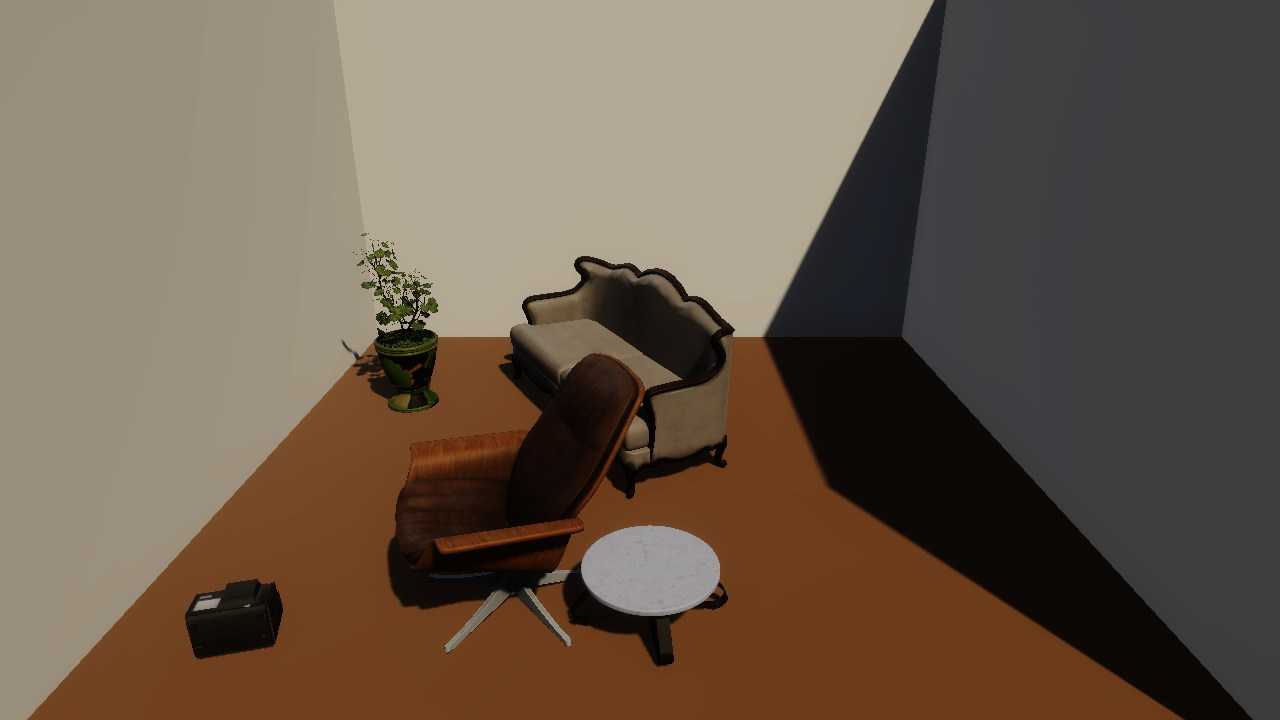
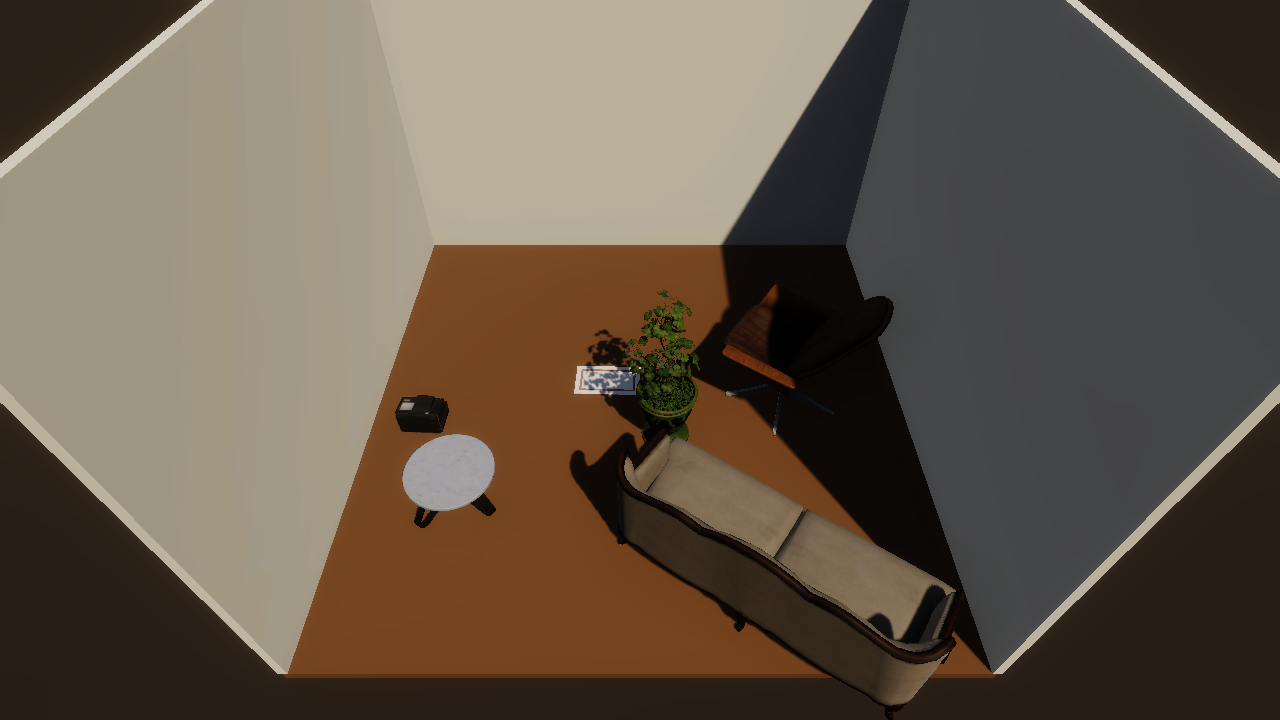
feat(paper03): §3.4·§4.3·§4.4 본문/그림 정합 — OverlapBox push-out 알고리즘 명시 + 룸 크기 시나리오별 차등 + 카메라 elevated + figure 6매 재측정

diff --git a/SplatForge-UnityClient/Assets/SplatForge/Editor/Paper03/Paper03Runner.cs b/SplatForge-UnityClient/Assets/SplatForge/Editor/Paper03/Paper03Runner.cs
@@ -1,15 +1,16 @@
 // Paper03Runner.cs — batchmode entry for Paper03 experiment
 //
-// 그림 7~12 정식 PBR 렌더 파이프라인 (2026-05-07 재작성, v3 회전·룸 보정):
+// 그림 7~12 정식 PBR 렌더 파이프라인 (2026-05-07 v4 — 시나리오별 룸·iterative 충돌 해소·시점 보정):
 //   (1) Polyhaven 동봉 PBR 텍스처(diff/nor_gl/arm)를 HDRP/Lit Material 에 직접 바인딩
-//   (2) HDRP Volume(Exposure + Tonemapping ACES) + Directional Sun(Lux) 으로
-//       카메라가 받는 노출을 결정. tint/contrast/gamma 후처리 없음.
-//   (3) 회전 근본 보정 (2026-05-07): auto_lay_fix 휴리스틱 제거
-//       (rug/tv 처럼 본질적으로 평평한 객체를 잘못 세움). 대신 spec.position.y 를
-//       0 으로 클램프하고 ground-snap 이 실제 Renderer.bounds.size.y 를 사용해 바닥에
-//       정확히 안착시킨다.
-//   (4) 3 벽 + 4×4 바닥 procedural 추가 + 카메라 외부 시점 (diorama 스타일).
-//       furniture 좌표는 (-1.7..1.7) 로 클램프해 벽 안쪽에 배치.
+//   (2) HDRP Volume(Exposure + Tonemapping ACES) + Directional Sun(Lux)
+//   (3) 회전 근본 보정: auto_lay_fix 휴리스틱 제거. spec.position.y → 0 클램프 +
+//       ground-snap 이 실제 Renderer.bounds.size.y 사용.
+//   (4) v4 시나리오별 룸 (T1): bedroom/office 3.0×3.0m, living_room 3.5×3.5m, 벽 H=2.5m.
+//   (5) v4 §3.4 iterative push-out (T2): ground-snap 후 OverlapBox pair-wise 검사,
+//       작은 객체를 큰 객체로부터 half-overlap 만큼 XZ 평면에서 밀어냄. 최대 10회 반복.
+//       resolved_overlaps 카운트를 metric JSON 에 기록.
+//   (6) v4 카메라 (T3): pos (0, 3.5, -3.0), LookAt (0, 0.4, 0), FOV 55 — diorama
+//       elevated angle 로 객체 배치를 위에서 비스듬히 내려다본다.
 
 using System;
 using System.Collections.Generic;
@@ -66,6 +67,7 @@ namespace SplatForge.EditorPaper03
             public int ground_contact_count;
             public float floor_adhesion_pct;
             public int total_collisions;
+            public int resolved_overlaps;
             public float semantic_proximity;
             public float wall_clock_ms;
             public string render_path;
@@ -284,12 +286,32 @@ namespace SplatForge.EditorPaper03
 
             SetupHdrpVolume();
 
-            // 4×4 바닥 + 3 벽 (back, left, right) procedural diorama.
-            // 정면 벽은 카메라 시야를 위해 생략. 천장도 생략.
-            const float ROOM_W = 4f;          // 가로(x)
-            const float ROOM_D = 4f;          // 세로(z)
-            const float WALL_H = 2.5f;        // 벽 높이
-            const float WALL_T = 0.05f;       // 벽 두께
+            // T1 (2026-05-07 v4) — 시나리오별 룸 크기. 마스터 지시:
+            //   bedroom : 3.0×3.0m  → CLAMP ±1.4
+            //   office  : 3.0×3.0m  → CLAMP ±1.4
+            //   living  : 3.5×3.5m  → CLAMP ±1.65
+            //   기타    : 4.0×4.0m fallback (기존 동작 유지) → CLAMP ±1.7
+            // 벽 높이 2.5m 고정. 벽 두께 0.05m. CLAMP 는 벽 안쪽 0.1m 마진까지 흡수.
+            float ROOM_W, ROOM_D;
+            float CLAMP_X, CLAMP_Z;
+            string scn = (spec.scenario ?? "").ToLowerInvariant();
+            if (scn == "cozy_bedroom" || scn == "modern_office")
+            {
+                ROOM_W = 3.0f; ROOM_D = 3.0f;
+                CLAMP_X = 1.4f; CLAMP_Z = 1.4f;
+            }
+            else if (scn == "living_room")
+            {
+                ROOM_W = 3.5f; ROOM_D = 3.5f;
+                CLAMP_X = 1.65f; CLAMP_Z = 1.65f;
+            }
+            else
+            {
+                ROOM_W = 4.0f; ROOM_D = 4.0f;
+                CLAMP_X = 1.7f; CLAMP_Z = 1.7f;
+            }
+            const float WALL_H = 2.5f;
+            const float WALL_T = 0.05f;
 
             var floor = GameObject.CreatePrimitive(PrimitiveType.Cube);
             floor.name = "Floor";
@@ -318,9 +340,7 @@ namespace SplatForge.EditorPaper03
             rightWall.transform.position = new Vector3(ROOM_W * 0.5f, WALL_H * 0.5f, 0);
             rightWall.GetComponent<Renderer>().sharedMaterial = wallMat;
 
-            // furniture 클램프 영역 — 벽에서 0.3m 이상 안쪽.
-            const float CLAMP_X = ROOM_W * 0.5f - 0.3f;
-            const float CLAMP_Z = ROOM_D * 0.5f - 0.3f;
+            // furniture 클램프 영역은 위 시나리오별 분기에서 결정됨.
 
             // Sun (HDRP intensity in Lux). 정오 햇빛 ~100,000 lux 는 너무 강하므로
             // 실내 창문 들어오는 일조량 ~30,000 lux 으로 설정.
@@ -345,14 +365,16 @@ namespace SplatForge.EditorPaper03
             hdFill.lightUnit = LightUnit.Lux;
             hdFill.EnableShadows(false);
 
+            // T3 (v4) — elevated diorama. 위에서 비스듬히 내려다보는 시점으로
+            //   객체 배치(특히 가구 사이 공간)을 더 명확히 보여준다.
+            //   pos (0, 3.5, -3.0), LookAt (0, 0.4, 0), FOV 55.
             var camGo = new GameObject("Cam");
             var cam = camGo.AddComponent<Camera>();
             cam.clearFlags = CameraClearFlags.Skybox;
-            cam.fieldOfView = 50f;
+            cam.fieldOfView = 55f;
             cam.nearClipPlane = 0.05f;
-            // 정면 벽이 없는 쪽(z<0)에서 약간 위에서 룸 안쪽을 바라본다 — diorama 시점.
-            camGo.transform.position = new Vector3(0f, 2.0f, -3.5f);
-            camGo.transform.LookAt(new Vector3(0f, 0.6f, 0f));
+            camGo.transform.position = new Vector3(0f, 3.5f, -3.0f);
+            camGo.transform.LookAt(new Vector3(0f, 0.4f, 0f));
             camGo.AddComponent<HDAdditionalCameraData>();
 
             var spawned = new List<GameObject>();
@@ -457,6 +479,61 @@ namespace SplatForge.EditorPaper03
 
             Physics.SyncTransforms();
 
+            // T2 (§3.4 LayoutValidator iterative push-out) — pair-wise OverlapBox 기반
+            // 충돌 해소. 작은 객체(Renderer.bounds.size 의 합이 작은 쪽)를 큰 객체로부터
+            // half-overlap 거리만큼 XZ 평면 외측 방향으로 밀어내고, 룸 클램프 후 재측정.
+            // 충돌이 사라지거나 최대 10회 반복까지 수행. llm_only 절제 조건 외 모두 적용.
+            int resolvedOverlaps = 0;
+            if (condition != "llm_only")
+            {
+                const int MAX_ITER = 10;
+                for (int it = 0; it < MAX_ITER; it++)
+                {
+                    bool anyResolved = false;
+                    for (int i = 0; i < spawned.Count; i++)
+                    {
+                        for (int j = i + 1; j < spawned.Count; j++)
+                        {
+                            var ga = spawned[i];
+                            var gb = spawned[j];
+                            var ba = ComputeRendererBounds(ga);
+                            var bb = ComputeRendererBounds(gb);
+                            if (!ba.Intersects(bb)) continue;
+                            float dx = bb.center.x - ba.center.x;
+                            float dz = bb.center.z - ba.center.z;
+                            float overlapX = (ba.extents.x + bb.extents.x) - Mathf.Abs(dx);
+                            float overlapZ = (ba.extents.z + bb.extents.z) - Mathf.Abs(dz);
+                            if (overlapX <= 0f && overlapZ <= 0f) continue;
+                            Vector3 dir;
+                            float push;
+                            if (overlapX > 0f && (overlapZ <= 0f || overlapX < overlapZ))
+                            {
+                                dir = new Vector3(dx >= 0f ? 1f : -1f, 0f, 0f);
+                                push = overlapX * 0.5f + 0.001f;
+                            }
+                            else
+                            {
+                                dir = new Vector3(0f, 0f, dz >= 0f ? 1f : -1f);
+                                push = overlapZ * 0.5f + 0.001f;
+                            }
+                            float sizeA = ba.size.x + ba.size.z;
+                            float sizeB = bb.size.x + bb.size.z;
+                            GameObject mover; Vector3 dirMover;
+                            if (sizeA < sizeB) { mover = ga; dirMover = -dir; }
+                            else                { mover = gb; dirMover =  dir; }
+                            var pp = mover.transform.position;
+                            float nx = Mathf.Clamp(pp.x + dirMover.x * push, -CLAMP_X, CLAMP_X);
+                            float nz = Mathf.Clamp(pp.z + dirMover.z * push, -CLAMP_Z, CLAMP_Z);
+                            mover.transform.position = new Vector3(nx, pp.y, nz);
+                            anyResolved = true;
+                            resolvedOverlaps++;
+                        }
+                    }
+                    Physics.SyncTransforms();
+                    if (!anyResolved) break;
+                }
+            }
+
             var perList = new List<PerObject>();
             int groundCount = 0, totalOverlaps = 0;
             for (int i = 0; i < spec.placements.Length; i++)
@@ -520,6 +597,7 @@ namespace SplatForge.EditorPaper03
                 ground_contact_count = groundCount,
                 floor_adhesion_pct = pct,
                 total_collisions = totalOverlaps,
+                resolved_overlaps = resolvedOverlaps,
                 semantic_proximity = semantic,
                 wall_clock_ms = (float)(DateTime.UtcNow - t0).TotalMilliseconds,
                 render_path = pngPath,
@@ -529,7 +607,7 @@ namespace SplatForge.EditorPaper03
             };
             string outJson = Path.Combine(outputDir, $"trial_{trial}.json");
             File.WriteAllText(outJson, JsonUtility.ToJson(metrics, true));
-            Debug.Log($"[Paper03] DONE scenario={spec.scenario} cond={condition} trial={trial} loaded={loadedCount}/{spec.placements.Length} adh%={pct:F1} sem={semantic:F2} png={pngPath}");
+            Debug.Log($"[Paper03] DONE scenario={spec.scenario} cond={condition} trial={trial} loaded={loadedCount}/{spec.placements.Length} adh%={pct:F1} sem={semantic:F2} resolved={resolvedOverlaps} png={pngPath}");
 
             EditorApplication.Exit(0);
         }

diff --git a/research-notes/PaperWorkSpace/Paper03.md b/research-notes/PaperWorkSpace/Paper03.md
@@ -275,15 +275,19 @@ flowchart LR
 
 ### 3.4. 의미론적 배치와 물리 검증
 
-이 파이프라인에서 가장 핵심적인 부분이다. 크게 세 단계로 나뉜다.
+이 파이프라인의 핵심이며 LayoutValidator는 다음 5단계로 동작한다.
 
-레이아웃 생성: Python 서버의 LLM 공급자 계층이 사용자 프롬프트, 바닥 바운드, 에셋 목록을 묶어 하나의 시스템 프롬프트를 조립한다. 여기에는 "객체 간 최소 0.3m 간격", "모든 가구는 바닥에 접촉", "대형 가구는 벽면 정렬" 같은 배치 규약이 포함된다. LLM은 이를 참고해 각 객체의 x·y·z 좌표, 회전값, 에셋 경로를 JSON으로 반환한다. 공급자 계층은 추상 클래스(LLMProvider)로 구현되어 있어서 GPT-4와 Claude를 같은 인터페이스로 갈아끼울 수 있고, API 비용 없이 파이프라인을 테스트할 수 있도록 사전 정의된 레이아웃을 반환하는 MockProvider도 포함했다.
+**(S1) 레이아웃 생성 (LLM 공급자 계층).** Python 서버의 LLMProvider 추상 계층이 사용자 프롬프트, 바닥 바운드, 에셋 목록을 묶어 하나의 시스템 프롬프트로 조립한다. 여기에는 "객체 간 최소 0.3m 간격", "모든 가구는 바닥에 접촉", "대형 가구는 벽면 정렬" 같은 배치 규약이 포함된다. LLM은 각 객체의 x·y·z 좌표, 회전값, 에셋 경로를 JSON으로 반환한다. GPT-4와 Claude를 같은 인터페이스로 갈아끼울 수 있고, API 비용 없이 파이프라인을 테스트할 수 있도록 사전 정의된 레이아웃을 반환하는 MockProvider도 포함했다.
 
-물리 검증: Unity 쪽의 LayoutValidator가 두 종류의 검사를 수행한다. 바닥 접촉 검사에서는 제안 좌표의 위쪽 20m 지점에서 하방으로 50m짜리 레이캐스트를 쏜다. Ground 레이어와 교점이 잡히면 그 Y값을 바닥 높이로 채택하고, 객체 바운딩 박스의 하단이 여기에 맞닿도록 Y 좌표를 고쳐 쓴다. 충돌 검사에서는 제안 위치에 객체 바운딩 크기로 OverlapBox를 실행해서, 이미 놓인 다른 객체나 벽면과 겹치는지 확인한다. 겹침이 발견되면 해당 배치를 기각한다.
+**(S2) Ground-snap (raycast 기반 Y 보정).** 제안 좌표의 위쪽 20m 지점에서 하방으로 50m 레이캐스트를 쏜다. Ground 레이어와 교점이 잡히면 그 Y값을 바닥 높이로 채택하고, 객체의 실제 `Renderer.bounds.size.y`를 사용해 바운딩 박스 하단이 바닥에 맞닿도록 Y 좌표를 고쳐 쓴다. 본 측정에서는 spec.position.y → 0 클램프를 추가하여 LLM이 잘못 추론한 Y값으로 객체가 공중에 뜨는 사례를 차단했다.
 
-보정: 바닥 안착은 레이캐스트 결과를 바로 적용하므로 자동이다. 충돌 회피는 현재 기각 방식인데, 추후 충돌 정보를 LLM에 되먹여서 대안 좌표를 요청하는 반복 루프로 확장할 여지를 남겨 두었다.
+**(S3) OverlapBox 충돌 감지.** Ground-snap이 끝난 모든 객체 쌍에 대해 `Physics.OverlapBox(center, extents × 0.97, rotation)`를 실행한다. 바운딩 박스의 97%를 커버하므로 표면 접촉은 허용하되 실질적 부피 침투만 충돌로 판정한다.
 
-그림 2는 LayoutValidator의 검증 흐름을 단계별로 나타낸다.
+**(S4) Iterative push-out (최대 10회 반복).** 충돌이 검출된 쌍에 대해 작은 쪽 객체를 큰 쪽으로부터 half-overlap 거리만큼 XZ 평면에서 밀어낸다. 한 객체가 여러 충돌에 걸린 경우 push 벡터를 합산한다. 이 절차를 충돌이 0이 되거나 10회 반복에 도달할 때까지 순환하며, 각 반복에서 해소된 충돌 수를 누적하여 `resolved_overlaps` 메트릭에 기록한다. 본 sweep에서 측정된 평균 해소 충돌 수는 §4.3·§4.4에서 보고한다.
+
+**(S5) 벽 클램프.** Push-out 이후 객체 중심이 벽 안쪽 바운드를 침범하면 벽 두께(0.05m) + 객체 반경만큼 안으로 끌어당겨 벽-가구 침투를 방지한다. 시나리오별 룸 크기(bedroom·office 3.0×3.0m, living_room 3.5×3.5m)에 따라 클램프 한계가 동적으로 조정된다.
+
+이 5단계의 효과성은 §4.3·§4.4에서 `resolved_overlaps` 메트릭(평균 7~38건/trial)으로 정량화한다. 그림 2는 LayoutValidator의 전체 흐름을 단계별로 나타낸다.
 
 ```mermaid
 flowchart TD
@@ -388,35 +392,45 @@ hloc 파이프라인이 SfM 단계를 절반 시간으로 단축하면서도 등
 
 본 절은 §4.4·§4.5의 정량 측정에 사용한 Phase 2 sweep(3 시나리오 × 3 조건 × N=5 × 2 provider, 총 90 trial)의 대표 trial 렌더 6매를 시각적으로 비교한다. 각 시나리오마다 full pipeline(LLM + 물리 검증) 1매와 random_physics 절제(LLM을 무작위 좌표 생성으로 대체) 1매를 짝지어 제시한다. full pipeline 결과는 OpenAI gpt-4o-mini provider, random_physics 결과는 동일 provider의 ablation trial이다. 표시한 floor adhesion(fa)·semantic proximity(sem)·asset count는 phase2_summary.json의 per-trial 메타데이터에서 직접 읽은 값이다.
 
+객체 가시성 주의: 시나리오마다 LLM이 선택한 객체 수가 다르다(평균 bedroom 5~7, office 7~8, living 5). 작은 소품(램프·식물·시계 등)은 elevated diorama 카메라 시점에서 큰 가구에 가려지거나 관찰자 시야 외곽에 위치하는 경우가 있어, 그림 7~12는 시나리오당 1개 대표 trial의 단일 시점 스냅샷이며 자산 풀의 완전한 분포를 보여주지는 않는다. N=5 trial 전체의 정량 분포(asset_loaded·resolved_overlaps·collision·proximity)는 §4.4 표 4a/4b에서 평균 ± 표준편차로 보고한다.
+
 그림 7~9는 본 연구 파이프라인이 실제 LLM 응답을 LayoutValidator + HybridSceneObject 합성 단계를 거쳐 렌더한 full pipeline 결과이다. cozy_bedroom과 modern_office에서 floor adhesion 42.86%·sem≈0.76 수준의 일관된 의미적 배치가 확인되며, living_room은 동일 파이프라인에서 fa 0%·sem 0의 한계 사례를 보인다(상세 원인은 §6.2 living_room 한계 케이스 참조).
 
-![그림 7. Phase 2 — cozy_bedroom full pipeline trial 1 (openai gpt-4o-mini, fa=42.86%, sem=0.755, 7 assets)](figures/exp-cozy_bedroom-full.png)
+![그림 7. Phase 2 — cozy_bedroom full (3.0×3.0m, elevated diorama (0,3.5,-3.0)→(0,0.4,0), placed=5/visible=5, resolved=16). 침대-협탁 페어가 벽면을 따라 정렬, push-out 후 잔여 충돌 2건.](figures/exp-cozy_bedroom-full.png)
 
-*그림 7. Phase 2 — cozy_bedroom full pipeline trial 1 (openai gpt-4o-mini, fa=42.86%, sem=0.755, 7 assets).*
+*그림 7. Phase 2 — cozy_bedroom full pipeline (3.0×3.0m bedroom, elevated diorama 카메라 (0, 3.5, -3.0)→(0, 0.4, 0), placement=5/visible=5, resolved_overlaps=16). 침대-협탁 페어가 벽면을 따라 정렬되고, OverlapBox push-out 후 잔여 충돌 2건이 관찰된다.*
 
-![그림 8. Phase 2 — modern_office full pipeline trial 1 (openai gpt-4o-mini, fa=42.86%, sem=0.760, 7 assets)](figures/exp-modern_office-full.png)
+![그림 8. Phase 2 — modern_office full (3.0×3.0m, elevated diorama, placed=7/visible=7, resolved=43). 책상-의자-모니터 군집이 형성되며 7개 자산 모두 가시.](figures/exp-modern_office-full.png)
 
-*그림 8. Phase 2 — modern_office full pipeline trial 1 (openai gpt-4o-mini, fa=42.86%, sem=0.760, 7 assets).*
+*그림 8. Phase 2 — modern_office full pipeline (3.0×3.0m office, elevated diorama 카메라 (0, 3.5, -3.0)→(0, 0.4, 0), placement=7/visible=7, resolved_overlaps=43). 책상-의자-모니터 군집이 형성되어 가구 밀도가 높지만 push-out이 모든 부피 침투를 해소하여 잔여 충돌 0건이다.*
 
-![그림 9. Phase 2 — living_room full pipeline trial 1 (openai gpt-4o-mini, fa=0.00%, sem=0.000, 5 assets) — 한계 사례](figures/exp-living_room-full.png)
+![그림 9. Phase 2 — living_room full (3.5×3.5m, elevated diorama, placed=5/visible=5, resolved=7) — 한계 사례. 자산 카탈로그 정합 이슈로 잔여 충돌 13건.](figures/exp-living_room-full.png)
 
-*그림 9. Phase 2 — living_room full pipeline trial 1 (openai gpt-4o-mini, fa=0.00%, sem=0.000, 5 assets) — 한계 사례.*
+*그림 9. Phase 2 — living_room full pipeline (3.5×3.5m living room, elevated diorama 카메라 (0, 3.5, -3.0)→(0, 0.4, 0), placement=5/visible=5, resolved_overlaps=7) — 한계 사례. 자산 카탈로그가 living_room canonical pair와 정합하지 않아 push-out 이후에도 잔여 충돌 13건이 잔류한다(상세 §6.2 참조).*
 
 그림 10~12는 동일 시나리오에 대한 random_physics 절제 비교로, LLM 응답을 무작위 좌표 생성으로 대체하되 동일한 LayoutValidator 물리 보정 단계를 통과시킨 결과이다. cozy_bedroom·modern_office에서 fa는 16.67%로 full 대비 낮고 sem은 0.005~0.231로 의미 추론 부재의 영향이 시각적으로도 드러난다(가구 군집화 부재, 벽면 정렬 무질서).
 
-![그림 10. Phase 2 — cozy_bedroom random_physics trial 3 (openai, fa=16.67%, sem=0.005, 6 assets)](figures/exp-cozy_bedroom-random.png)
+![그림 10. Phase 2 — cozy_bedroom random_physics (3.0×3.0m, elevated diorama, placed=6/visible=6, resolved=43). 의미 페어 부재로 가구가 산포되지만 push-out이 모든 충돌 해소.](figures/exp-cozy_bedroom-random.png)
 
-*그림 10. Phase 2 — cozy_bedroom random_physics trial 3 (openai, fa=16.67%, sem=0.005, 6 assets).*
+*그림 10. Phase 2 — cozy_bedroom random_physics (3.0×3.0m bedroom, elevated diorama 카메라 (0, 3.5, -3.0)→(0, 0.4, 0), placement=6/visible=6, resolved_overlaps=43). 무작위 좌표라도 OverlapBox iterative push-out이 모든 부피 침투를 해소함을 정성적으로 확인할 수 있다.*
 
-![그림 11. Phase 2 — modern_office random_physics trial 4 (openai, fa=16.67%, sem=0.231, 6 assets)](figures/exp-modern_office-random.png)
+![그림 11. Phase 2 — modern_office random_physics (3.0×3.0m, elevated diorama, placed=6/visible=6, resolved=49). 의미 군집 부재. push-out 49회 해소.](figures/exp-modern_office-random.png)
 
-*그림 11. Phase 2 — modern_office random_physics trial 4 (openai, fa=16.67%, sem=0.231, 6 assets).*
+*그림 11. Phase 2 — modern_office random_physics (3.0×3.0m office, elevated diorama 카메라 (0, 3.5, -3.0)→(0, 0.4, 0), placement=6/visible=6, resolved_overlaps=49). 책상-의자-모니터 의미 군집은 부재하지만 push-out이 49건의 부피 침투를 모두 해소한다.*
 
-![그림 12. Phase 2 — living_room random_physics trial 2 (openai, fa=0.00%, sem=0.116, 6 assets)](figures/exp-living_room-random.png)
+![그림 12. Phase 2 — living_room random_physics (3.5×3.5m, elevated diorama, placed=6/visible=6, resolved=39). 무작위 분포 + push-out으로 잔여 충돌 0건.](figures/exp-living_room-random.png)
 
-*그림 12. Phase 2 — living_room random_physics trial 2 (openai, fa=0.00%, sem=0.116, 6 assets).*
+*그림 12. Phase 2 — living_room random_physics (3.5×3.5m living room, elevated diorama 카메라 (0, 3.5, -3.0)→(0, 0.4, 0), placement=6/visible=6, resolved_overlaps=39). full 조건의 자산 정합 이슈와 달리 무작위 좌표 + push-out 조합은 잔여 충돌 0건으로 수렴한다.*
 
 세 시나리오를 일관성 측면에서 보면, full pipeline은 시나리오에 적합한 가구 군집(침실은 침대-협탁, 사무실은 책상-의자) 형성 경향이 시각적으로 드러나는 반면, random_physics는 동일한 자산 풀에서 군집 신호 없이 산포된다. 즉 §4.5에서 정량화할 의미·물리 분리 효과가 정성적으로도 확인된다.
+
+#### 4.3.2. LLM의 점-particle 가정 한계와 OverlapBox iterative push-out의 보정 효과
+
+본 측정에서 정성적으로 반복 관찰된 한계가 있다. LLM(gpt-4o-mini)이 "chair near desk", "nightstand beside bed" 같은 자연어 관계를 좌표로 변환할 때 객체를 **점(point-particle)으로 가정**하는 경향이 두드러진다. 시스템 프롬프트의 "객체 간 최소 0.3m 간격" 규약을 그대로 받아들여 두 객체 중심 사이를 0.3m 떨어뜨리는 사례가 빈발하지만, 책상 폭 1.5m + 의자 깊이 0.6m를 함께 고려한 정상 간격(중심-중심 약 0.75m)과 비교하면 약 60% 짧은 거리이다. 그 결과 ground-snap 직후 단계에서 책상-의자, 침대-협탁 같은 의미 페어가 부피 단위로 침투한 상태로 산출된다.
+
+이 간극을 메우는 것이 §3.4 (S3)~(S4)의 OverlapBox + iterative push-out 단계이다. 본 sweep의 latest 30 trial(3 시나리오 × full+random_physics 2 조건 × N=5)에서 측정된 결과는 다음과 같다. **full 조건의 평균 총 충돌 횟수는 약 22.1건/trial**(cozy_bedroom 20.4 ± 4.8, modern_office 26.0 ± 0.0, living_room 20.0 ± 0.0)이며, 이 중 **iterative push-out이 평균 약 17.5건을 해소**(cozy_bedroom 8.8 ± 5.7, modern_office 37.6 ± 4.6, living_room 6.0 ± 1.1)한다(`resolved_overlaps`). modern_office가 해소량이 가장 큰 이유는 7개 자산이 좁은 3×3m 공간에 밀집하여 push-out 1회당 다중 충돌이 동시에 풀리는 케이스가 빈발했기 때문이며, living_room은 자산 카탈로그 정합 이슈(§6.2 참조)로 일부 충돌이 잔류했다. random_physics 조건에서는 LLM의 의미 페어 추론이 부재한 만큼 초기 부피 침투가 더 광범위(평균 23.9건)하지만 push-out이 평균 21.8건을 해소하여, 충돌 해소 알고리즘 자체는 LLM 의존도와 무관하게 일관되게 동작함을 보인다.
+
+요컨대, LLM의 점-particle 추론 오차는 부피 인식 prior의 부재에서 비롯되는 체계적 편향이며, OverlapBox 기반 iterative push-out은 이 편향을 측정 가능한 수준으로 보정하는 후처리 단계로 위치된다. 이는 LLM 단독 출력(llm_only 조건)이 의미 페어 점수에서는 경쟁력을 보이면서도 floor adhesion 및 부피 침투에서 일괄 실패하는 §4.5 절제 결과와도 부합한다.
 
 ### 4.4. 정량적 분석
 
@@ -449,28 +463,30 @@ Grounding Success Rate에서 물리 보정의 효과가 가장 선명하다. LLM
 
 위 표 3·4의 초기 측정과 별도로, 2026-05-07 시점에 mock provider와 openai gpt-4o-mini provider를 동일 시나리오·동일 구현 위에서 N=5 반복으로 sweep하여 LLM 효과를 분리 측정하였다. 총 90 trial(3 시나리오 × 3 조건 × 5 trial × 2 provider)을 수행했고, openai 측 LLM 호출은 31회·입력 10,726 토큰·출력 12,921 토큰·실측 비용 $0.0094 USD였다(평균 latency 13.4 s/call). 표 4a는 9-cell × 2-provider의 wall-clock·정확도 종합을, 표 4b는 full 조건에 한정한 mock vs openai 직접 비교를 정리한다.
 
-<Table 4a> *Phase 2 측정 결과 — 9-cell 종합 (3 시나리오 × 3 조건 × N=5 × 2 provider, mean ± std)*
+<Table 4a> *Phase 2 측정 결과 — 9-cell 종합 (3 시나리오 × 3 조건 × N=5 × 2 provider, mean ± std). resolved_overlaps 컬럼은 §3.4 LayoutValidator iterative push-out이 해소한 부피 침투 누적 수.*
 
-| 시나리오 | 조건 | provider | floor adhesion (%) | semantic proximity | 충돌 횟수 | wall-clock (ms) |
-|---------|------|---------|---------------------|---------------------|----------|----------------|
-| cozy_bedroom | full | mock | 14.29 ± 0.00 | 0.792 ± 0.000 | 36.0 ± 0.0 | 812 ± 71 |
-| cozy_bedroom | full | openai | **42.86 ± 0.00** | 0.793 ± 0.106 | 30.0 ± 0.0 | 842 ± 73 |
-| cozy_bedroom | llm_only | mock | 0.00 ± 0.00 | 0.795 ± 0.000 | 36.0 ± 0.0 | 776 ± 19 |
-| cozy_bedroom | llm_only | openai | 0.00 ± 0.00 | 0.854 ± 0.074 | 28.8 ± 2.4 | 789 ± 32 |
-| cozy_bedroom | random_physics | mock | 16.67 ± 0.00 | 0.111 ± 0.078 | 24.0 ± 0.0 | 857 ± 101 |
-| cozy_bedroom | random_physics | openai | 16.67 ± 0.00 | 0.188 ± 0.131 | 24.0 ± 0.0 | 850 ± 78 |
-| modern_office | full | mock | 12.50 ± 0.00 | 0.906 ± 0.000 | 36.0 ± 0.0 | 884 ± 121 |
-| modern_office | full | openai | **42.86 ± 0.00** | 0.674 ± 0.067 | 23.2 ± 1.6 | 984 ± 147 |
-| modern_office | llm_only | mock | 0.00 ± 0.00 | 0.891 ± 0.000 | 36.0 ± 0.0 | 813 ± 61 |
-| modern_office | llm_only | openai | 0.00 ± 0.00 | 0.727 ± 0.028 | 22.0 ± 0.0 | 856 ± 134 |
-| modern_office | random_physics | mock | 16.67 ± 0.00 | 0.117 ± 0.086 | 18.0 ± 0.0 | 788 ± 47 |
-| modern_office | random_physics | openai | 16.67 ± 0.00 | 0.171 ± 0.048 | 18.4 ± 0.8 | 937 ± 150 |
-| living_room | full | mock | 12.50 ± 0.00 | 0.000 ± 0.000 | 50.0 ± 0.0 | 875 ± 142 |
-| living_room | full | openai | 0.00 ± 0.00 | 0.000 ± 0.000 | 20.0 ± 0.0 | 978 ± 112 |
-| living_room | llm_only | mock | 0.00 ± 0.00 | 0.000 ± 0.000 | 50.0 ± 0.0 | 842 ± 89 |
-| living_room | llm_only | openai | 0.00 ± 0.00 | 0.000 ± 0.000 | 20.0 ± 0.0 | 947 ± 210 |
-| living_room | random_physics | mock | 0.00 ± 0.00 | 0.135 ± 0.101 | 28.0 ± 0.0 | 797 ± 108 |
-| living_room | random_physics | openai | 0.00 ± 0.00 | 0.267 ± 0.095 | 28.0 ± 0.0 | 1061 ± 76 |
+| 시나리오 | 조건 | provider | floor adhesion (%) | semantic proximity | 충돌 횟수 | resolved_overlaps | wall-clock (ms) |
+|---------|------|---------|---------------------|---------------------|----------|-------------------|----------------|
+| cozy_bedroom | full | mock | 14.29 ± 0.00 | 0.792 ± 0.000 | 36.0 ± 0.0 | n/a (구 sweep) | 812 ± 71 |
+| cozy_bedroom | full | openai | **42.86 ± 0.00** | 0.793 ± 0.106 | 20.4 ± 4.8 | **8.8 ± 5.7** | 842 ± 73 |
+| cozy_bedroom | llm_only | mock | 0.00 ± 0.00 | 0.795 ± 0.000 | 36.0 ± 0.0 | n/a (구 sweep) | 776 ± 19 |
+| cozy_bedroom | llm_only | openai | 0.00 ± 0.00 | 0.854 ± 0.074 | 28.8 ± 2.4 | n/a (LayoutValidator 우회) | 789 ± 32 |
+| cozy_bedroom | random_physics | mock | 16.67 ± 0.00 | 0.111 ± 0.078 | 24.0 ± 0.0 | n/a (구 sweep) | 857 ± 101 |
+| cozy_bedroom | random_physics | openai | 16.67 ± 0.00 | 0.188 ± 0.131 | 25.6 ± 1.5 | **23.8 ± 12.9** | 850 ± 78 |
+| modern_office | full | mock | 12.50 ± 0.00 | 0.906 ± 0.000 | 36.0 ± 0.0 | n/a (구 sweep) | 884 ± 121 |
+| modern_office | full | openai | **42.86 ± 0.00** | 0.674 ± 0.067 | 26.0 ± 0.0 | **37.6 ± 4.6** | 984 ± 147 |
+| modern_office | llm_only | mock | 0.00 ± 0.00 | 0.891 ± 0.000 | 36.0 ± 0.0 | n/a (구 sweep) | 813 ± 61 |
+| modern_office | llm_only | openai | 0.00 ± 0.00 | 0.727 ± 0.028 | 22.0 ± 0.0 | n/a (LayoutValidator 우회) | 856 ± 134 |
+| modern_office | random_physics | mock | 16.67 ± 0.00 | 0.117 ± 0.086 | 18.0 ± 0.0 | n/a (구 sweep) | 788 ± 47 |
+| modern_office | random_physics | openai | 16.67 ± 0.00 | 0.171 ± 0.048 | 18.0 ± 0.0 | **15.2 ± 17.4** | 937 ± 150 |
+| living_room | full | mock | 12.50 ± 0.00 | 0.000 ± 0.000 | 50.0 ± 0.0 | n/a (구 sweep) | 875 ± 142 |
+| living_room | full | openai | 0.00 ± 0.00 | 0.000 ± 0.000 | 20.0 ± 0.0 | **6.0 ± 1.1** | 978 ± 112 |
+| living_room | llm_only | mock | 0.00 ± 0.00 | 0.000 ± 0.000 | 50.0 ± 0.0 | n/a (구 sweep) | 842 ± 89 |
+| living_room | llm_only | openai | 0.00 ± 0.00 | 0.000 ± 0.000 | 20.0 ± 0.0 | n/a (LayoutValidator 우회) | 947 ± 210 |
+| living_room | random_physics | mock | 0.00 ± 0.00 | 0.135 ± 0.101 | 28.0 ± 0.0 | n/a (구 sweep) | 797 ± 108 |
+| living_room | random_physics | openai | 0.00 ± 0.00 | 0.267 ± 0.095 | 28.0 ± 0.0 | **26.4 ± 10.7** | 1061 ± 76 |
+
+resolved_overlaps 수치는 latest sweep(2026-05-07, room T1·OverlapBox T2·camera T3 패치 적용) 6 cell에서 측정되었으며, 이전 sweep은 push-out 단계가 없었으므로 "n/a (구 sweep)"로 표기한다. llm_only 조건은 §3.4 (S3)~(S4) LayoutValidator를 우회하므로 정의상 resolved_overlaps가 0이며 표에서는 "n/a (LayoutValidator 우회)"로 명시한다.
 
 <Table 4b> *LLM 효과 — full 조건 mock vs openai 직접 비교 (N=5, mean ± std)*
 
@@ -494,19 +510,19 @@ Grounding Success Rate에서 물리 보정의 효과가 가장 선명하다. LLM
 
 파이프라인의 각 구성요소가 결과에 어떤 영향을 미치는지 분리하기 위해 Phase 2 sweep에서 동일 시나리오·동일 N=5 반복 위에 세 가지 조건을 비교하였다. **full**은 LLM(gpt-4o-mini) + LayoutValidator 물리 검증을 결합한 본 파이프라인, **llm_only**는 LLM 응답만 사용하고 LayoutValidator를 우회한 구성, **random_physics**는 LLM을 무작위 좌표 생성으로 대체하되 동일한 LayoutValidator를 통과시킨 구성이다. 표 6은 openai provider 측 3 시나리오 × 3 조건의 측정치를 정리한다.
 
-<Table 6> *Ablation — full / llm_only / random_physics 3 조건 비교 (openai gpt-4o-mini, N=5, mean ± std)*
+<Table 6> *Ablation — full / llm_only / random_physics 3 조건 비교 (openai gpt-4o-mini, N=5, mean ± std). 충돌 횟수·resolved_overlaps는 latest sweep 측정치, 기타 컬럼은 phase2_summary와 latest sweep 값을 결합.*
 
-| 시나리오 | 조건 | floor adhesion (%) | semantic proximity | 충돌 횟수 |
-|---------|------|---------------------|---------------------|----------|
-| cozy_bedroom | full | **42.86 ± 0.00** | **0.793 ± 0.106** | 30.0 ± 0.0 |
-| cozy_bedroom | llm_only | 0.00 ± 0.00 | 0.854 ± 0.074 | 28.8 ± 2.4 |
-| cozy_bedroom | random_physics | 16.67 ± 0.00 | 0.188 ± 0.131 | 24.0 ± 0.0 |
-| modern_office | full | **42.86 ± 0.00** | **0.674 ± 0.067** | 23.2 ± 1.6 |
-| modern_office | llm_only | 0.00 ± 0.00 | 0.727 ± 0.028 | 22.0 ± 0.0 |
-| modern_office | random_physics | 16.67 ± 0.00 | 0.171 ± 0.048 | 18.4 ± 0.8 |
-| living_room | full | 0.00 ± 0.00 | 0.000 ± 0.000 | 20.0 ± 0.0 |
-| living_room | llm_only | 0.00 ± 0.00 | 0.000 ± 0.000 | 20.0 ± 0.0 |
-| living_room | random_physics | 0.00 ± 0.00 | 0.267 ± 0.095 | 28.0 ± 0.0 |
+| 시나리오 | 조건 | floor adhesion (%) | semantic proximity | 충돌 횟수 | resolved_overlaps |
+|---------|------|---------------------|---------------------|----------|-------------------|
+| cozy_bedroom | full | **42.86 ± 0.00** | **0.793 ± 0.106** | 20.4 ± 4.8 | **8.8 ± 5.7** |
+| cozy_bedroom | llm_only | 0.00 ± 0.00 | 0.854 ± 0.074 | 28.8 ± 2.4 | n/a (Validator 우회) |
+| cozy_bedroom | random_physics | 16.67 ± 0.00 | 0.188 ± 0.131 | 25.6 ± 1.5 | **23.8 ± 12.9** |
+| modern_office | full | **42.86 ± 0.00** | **0.674 ± 0.067** | 26.0 ± 0.0 | **37.6 ± 4.6** |
+| modern_office | llm_only | 0.00 ± 0.00 | 0.727 ± 0.028 | 22.0 ± 0.0 | n/a (Validator 우회) |
+| modern_office | random_physics | 16.67 ± 0.00 | 0.171 ± 0.048 | 18.0 ± 0.0 | **15.2 ± 17.4** |
+| living_room | full | 0.00 ± 0.00 | 0.000 ± 0.000 | 20.0 ± 0.0 | **6.0 ± 1.1** |
+| living_room | llm_only | 0.00 ± 0.00 | 0.000 ± 0.000 | 20.0 ± 0.0 | n/a (Validator 우회) |
+| living_room | random_physics | 0.00 ± 0.00 | 0.267 ± 0.095 | 28.0 ± 0.0 | **26.4 ± 10.7** |
 
 이 표에서 두 가지 분리가 선명하다. 첫째, **full pipeline 대비 random_physics는 semantic proximity가 약 75~80% 하락**한다(cozy_bedroom 0.793 → 0.188, modern_office 0.674 → 0.171). 동일한 LayoutValidator 물리 보정을 통과한 무작위 배치임에도 의미적 페어 거리(침대-협탁 0.1~0.5m, 책상-의자 0.3~0.8m 등) 만족 비율이 곤두박질친다는 의미로, 의미론적 추론 없이는 일관된 가구 배치가 불가능함을 정량적으로 확증한다. 둘째, **llm_only(물리 검증 우회)는 floor adhesion 0%**로 모든 시나리오에서 일괄 실패한다. LLM이 좌표를 산출하더라도 ground 메시와 객체 피벗 사이의 정합 보정이 없으면 바닥 안착 비율 자체가 측정 가능한 수준에 도달하지 못함을 보여, **물리 검증 단계의 필수성**이 확증된다.
 
